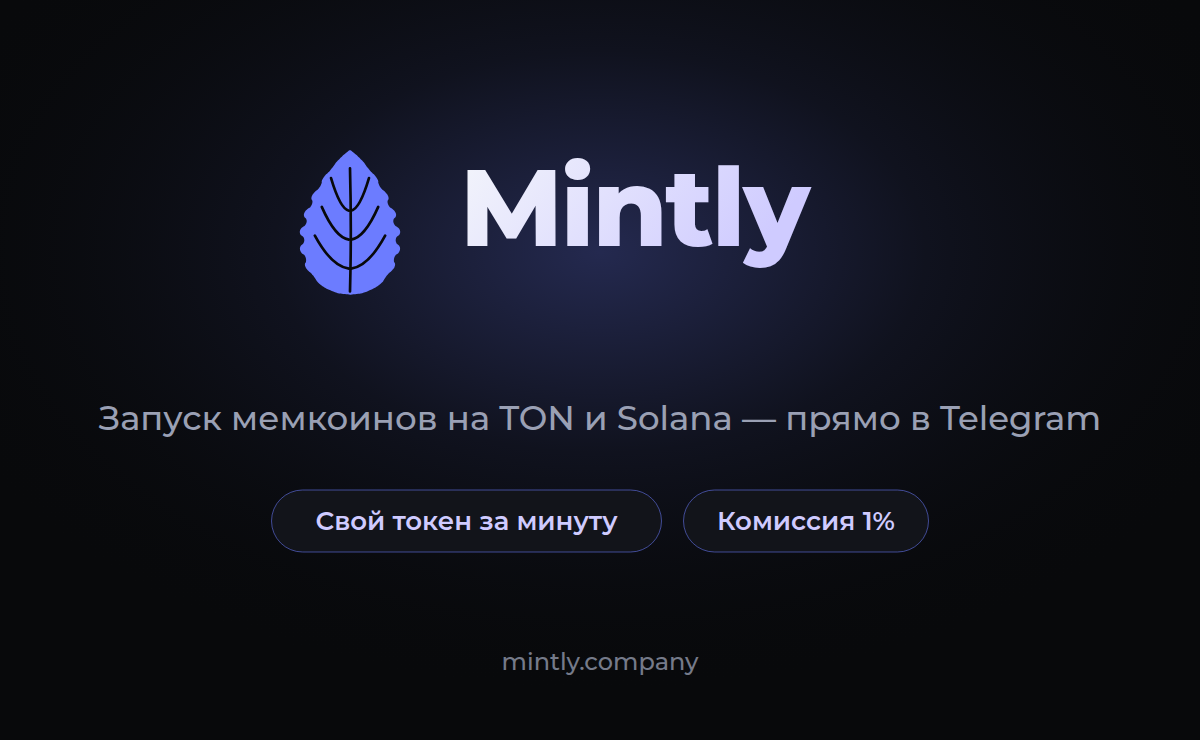
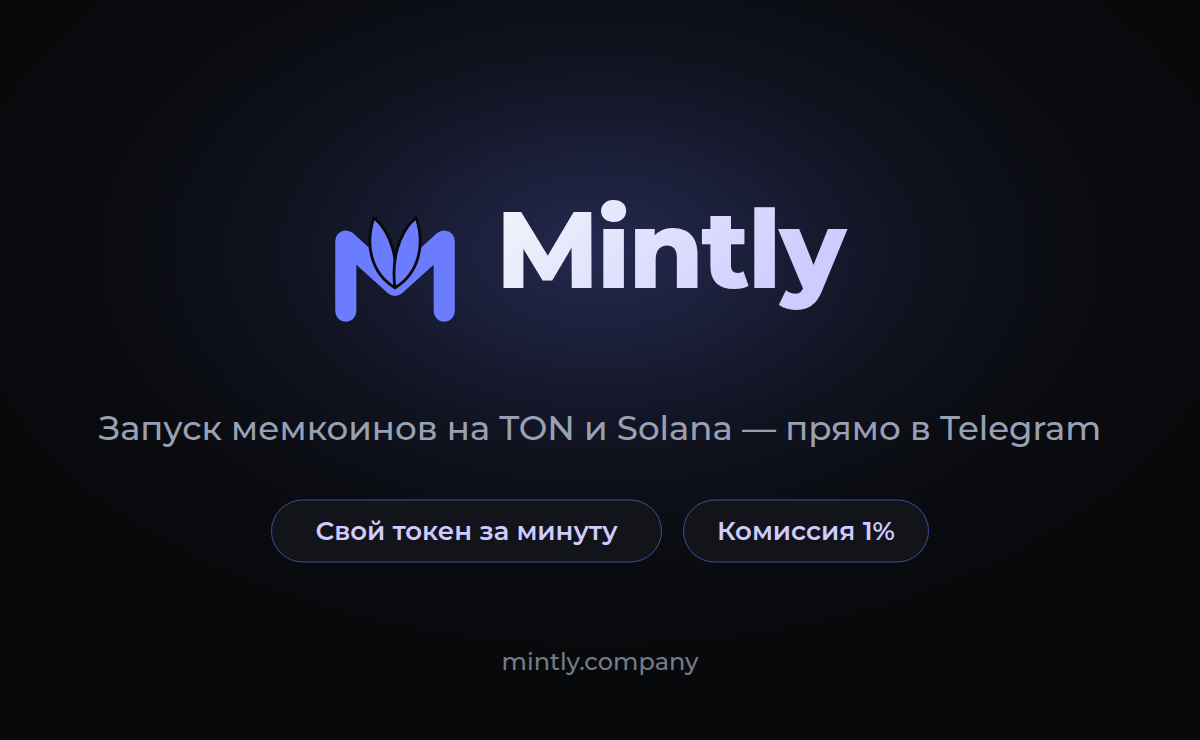
Знак на баннере — буква M с ростком
Вместо листа тот знак, что лежит в public/logo.svg. Читаем файл, а не
повторяем пути в скрипте: иначе знак на баннере однажды разойдётся со
знаком везде ещё. Цвета подменяются на фирменные — в файле осталась
старая оранжевая палитра, — а контур-зазор утоньшён: он рассчитан на
аватарку в сорок точек и на крупном знаке съедал сам росток.

Claude-Session: https://claude.ai/code/session_012dgtbmCBimMGEXv6Efga8R

diff --git a/api/telegram-bot.js b/api/telegram-bot.js
@@ -1472,7 +1472,7 @@ async function handleWalletSet(message, аргумент) {
 /* Telegram запоминает загруженное фото по ссылке и на ту же ссылку
    отдаёт старую картинку, сколько её ни перерисовывай. Поэтому в адресе
    стоит номер: перерисовал баннер — подними его на единицу. */
-const БАННЕР_ВЕРСИЯ = 3;
+const БАННЕР_ВЕРСИЯ = 4;
 
 const ПРИВЕТСТВИЕ =
   "Mintly — запуск токенов в Telegram.\n\nЗдесь можно смотреть цены, покупать и продавать, не выходя из переписки: /menu\n\nВопрос или поломка — «Профиль» → «Поддержка» в приложении.";
